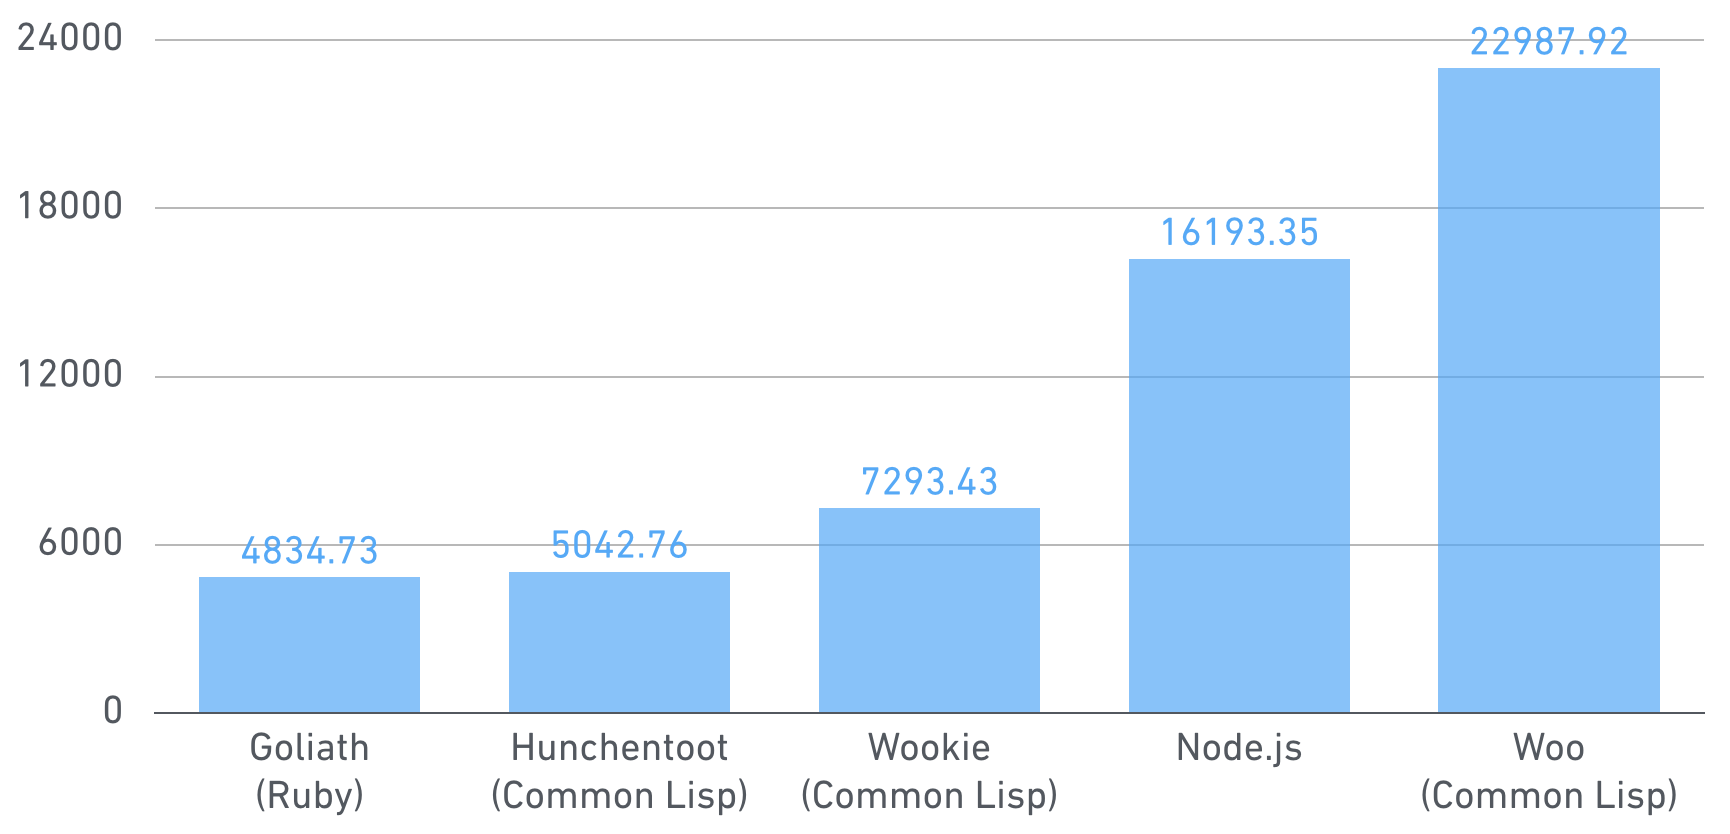
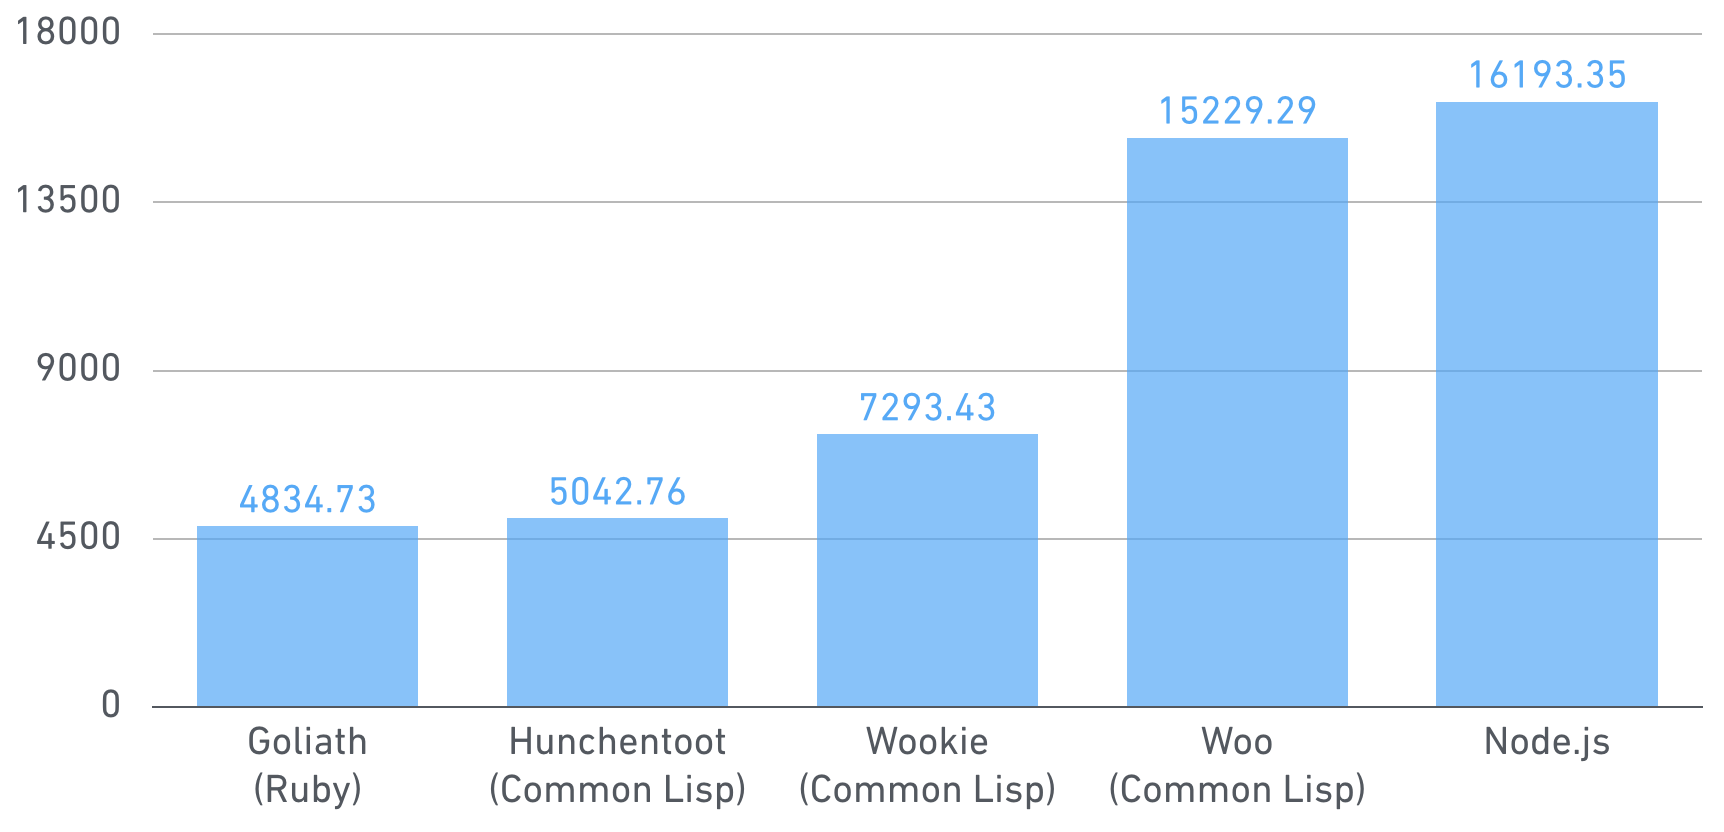
Update the benchmark result.

diff --git a/README.md b/README.md
@@ -124,6 +124,23 @@ Requests/sec:   7293.43
 Transfer/sec:    819.09KB
 ```
 
+### Woo (Common Lisp)
+
+```
+$ sbcl --load benchmark/woo.lisp
+```
+
+```
+Running 5s test @ http://127.0.0.1:5000
+  5 threads and 15 connections
+  Thread Stats   Avg      Stdev     Max   +/- Stdev
+    Latency     0.97ms  303.02us   6.19ms   91.49%
+    Req/Sec     3.28k   430.03     4.00k    78.71%
+  76101 requests in 5.00s, 8.27MB read
+Requests/sec:  15229.29
+Transfer/sec:      1.66MB
+```
+
 ### Node.js http module
 
 ```
@@ -139,23 +156,6 @@ Running 5s test @ http://127.0.0.1:5000
   80950 requests in 5.00s, 10.04MB read
 Requests/sec:  16193.35
 Transfer/sec:      2.01MB
-```
-
-### Woo (Common Lisp)
-
-```
-$ sbcl --load benchmark/woo.lisp
-```
-
-```
-Running 5s test @ http://127.0.0.1:5000
-  5 threads and 15 connections
-  Thread Stats   Avg      Stdev     Max   +/- Stdev
-    Latency   644.06us  266.32us   7.97ms   97.68%
-    Req/Sec     4.85k   507.15     5.78k    79.64%
-  114923 requests in 5.00s, 5.59MB read
-Requests/sec:  22987.92
-Transfer/sec:      1.12MB
 ```
 
 ## Installation
